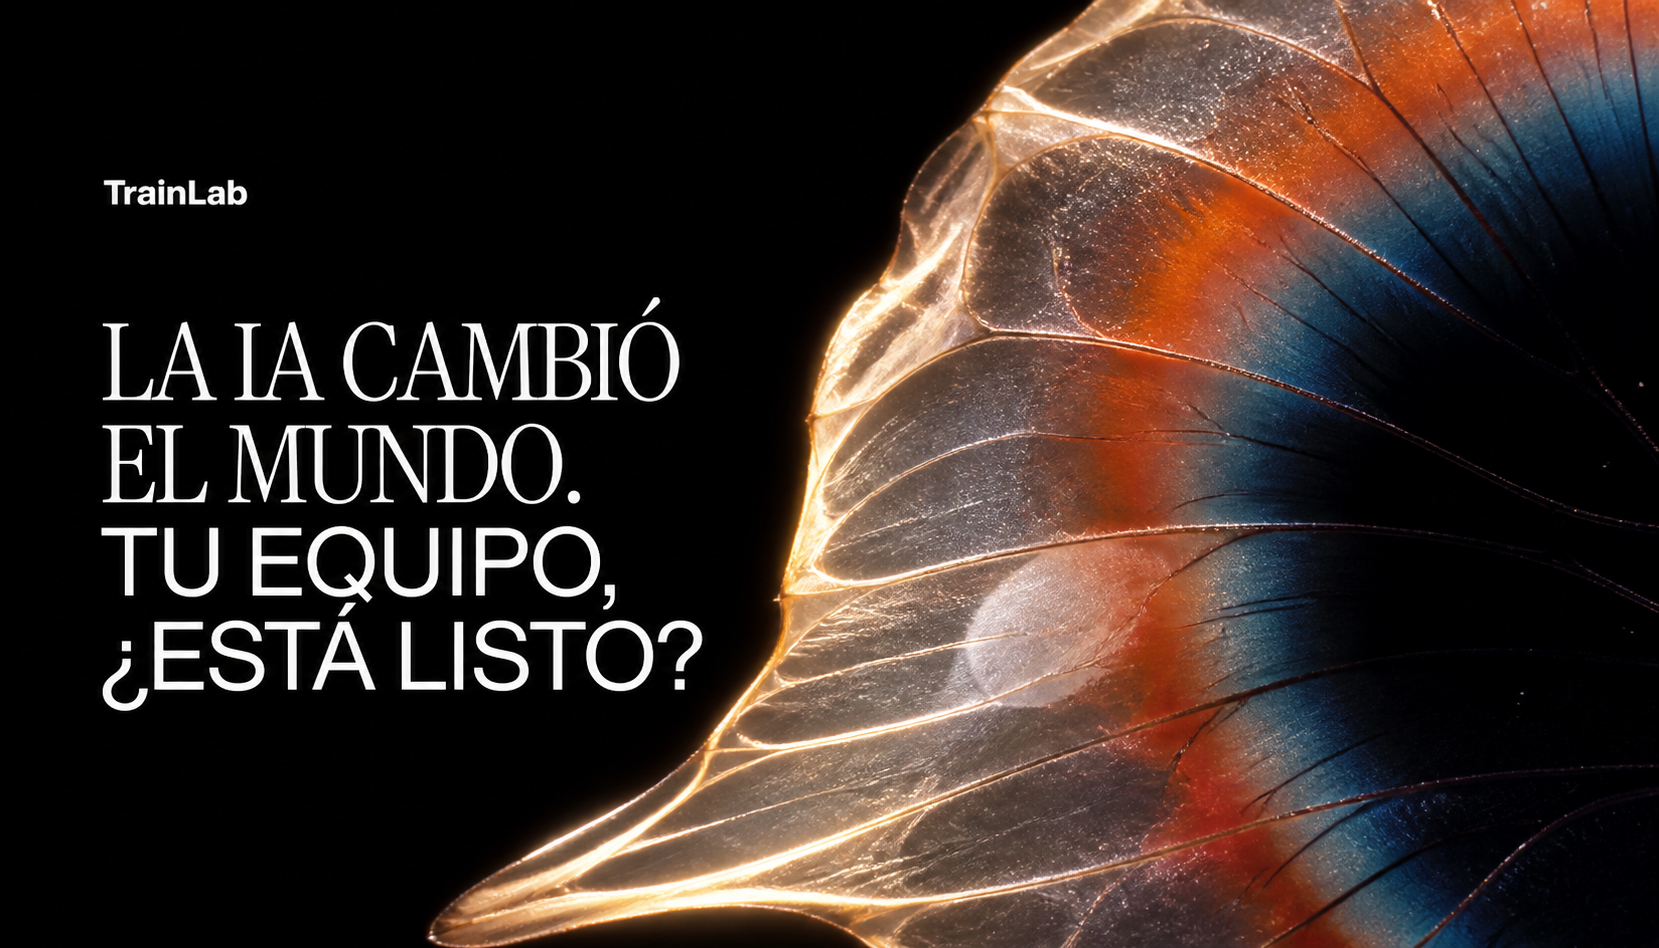
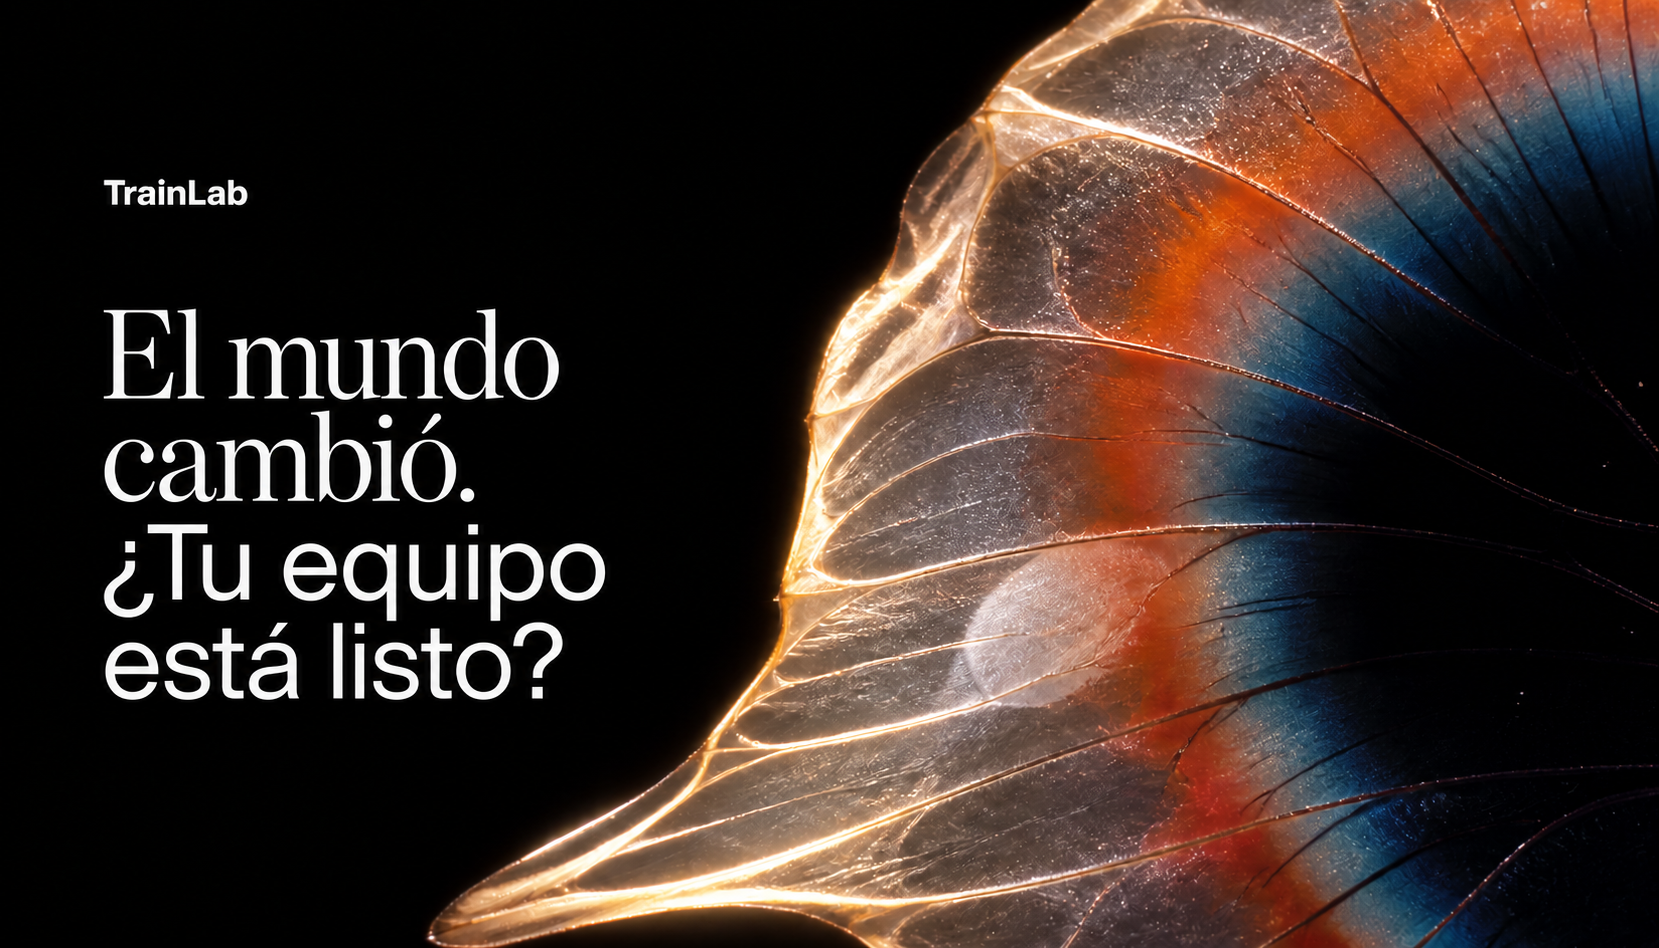
Update TrainLab social sharing headline and image

diff --git a/app/layout.tsx b/app/layout.tsx
@@ -8,26 +8,28 @@ export async function generateMetadata(): Promise<Metadata> {
   const protocol = requestHeaders.get("x-forwarded-proto") ?? (host.includes("localhost") ? "http" : "https");
   const baseUrl = new URL(`${protocol}://${host}`);
 
+  const shareText = "El mundo cambió. ¿Tu equipo está listo?";
+  const shareImage = new URL("/og.png?v=el-mundo-cambio", baseUrl).toString();
+
   return {
     metadataBase: baseUrl,
     title: "TrainLab — Capacidades para un mundo en transformación",
     description:
       "Formación, capacitación y entrenamiento a medida para organizaciones, equipos y personas.",
     openGraph: {
-      title: "TrainLab — La IA cambió el mundo. Tu equipo, ¿está listo?",
-      description:
-        "Desarrollamos las capacidades que las organizaciones necesitan para competir en entornos de transformación acelerada.",
+      title: shareText,
+      description: shareText,
       type: "website",
       locale: "es_AR",
       url: baseUrl,
       siteName: "TrainLab",
-      images: [{ url: new URL("/og.png", baseUrl).toString(), width: 1659, height: 948, alt: "TrainLab" }],
+      images: [{ url: shareImage, width: 1659, height: 948, alt: shareText }],
     },
     twitter: {
       card: "summary_large_image",
-      title: "TrainLab — Capacidades para el cambio",
-      description: "Formación para un mundo en transformación.",
-      images: [new URL("/og.png", baseUrl).toString()],
+      title: shareText,
+      description: shareText,
+      images: [{ url: shareImage, alt: shareText }],
     },
   };
 }
